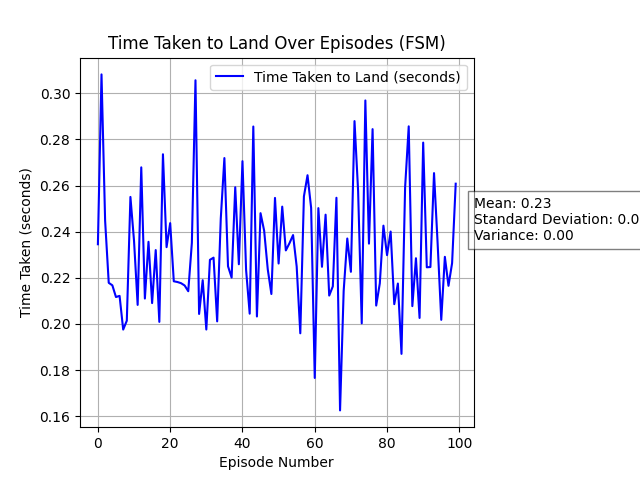
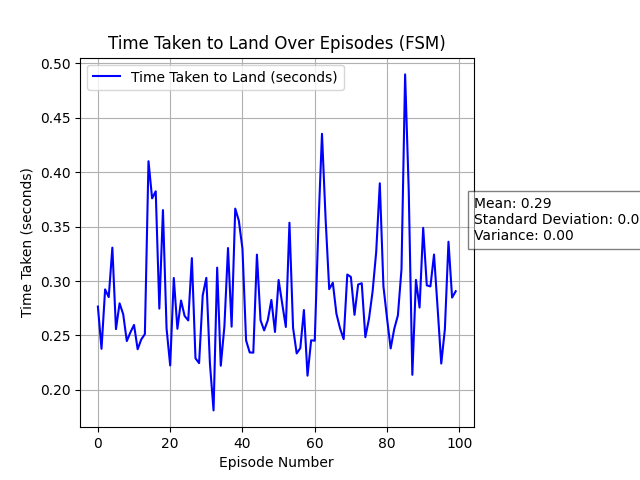
add unreadable pie plot

Changed region(s): [[0.0312, 0.125, 0.75, 0.875], [0.0625, 0.75, 0.125, 0.875], [0.8438, 0.4062, 0.875, 0.4375]]

diff --git a/plot_results.py b/plot_results.py
@@ -7,9 +7,10 @@ def plot_results(episodes, max_deviations, avg_deviations, min_deviations,
                  max_gimbal_smoothness, avg_gimbal_smoothness, min_gimbal_smoothness,
                  max_throttle_smoothness, avg_throttle_smoothness, min_throttle_smoothness,
                  time_taken_to_land, model_type, landing_successes, x_landing_precision,
-                 ram_usage):
+                 ram_usage, action_counts):
     """
-    Plot the results of the evaluation for either PPO or FSM models.
+    Plot the results of the evaluation for either PPO or FSM models, including a pie chart
+    for the action distribution.
 
     Parameters:
     - episodes: List of episode numbers.
@@ -30,10 +31,8 @@ def plot_results(episodes, max_deviations, avg_deviations, min_deviations,
     - landing_successes: List of boolean values indicating success (True) or failure (False) for each episode.
     - x_landing_precision: List of x-axis positions at the end of each episode.
     - ram_usage: List of RAM usage per episode.
+    - action_counts: Dictionary containing the count of each action (0 to 6).
     """
-
-    output_dir = os.path.join('plots', 'comparison', model_type)
-    os.makedirs(output_dir, exist_ok=True)  # Create the directory if it doesn't exist
 
     output_dir = os.path.join('plots', 'comparison', model_type)
     os.makedirs(output_dir, exist_ok=True)  # Create the directory if it doesn't exist
@@ -200,3 +199,39 @@ def plot_results(episodes, max_deviations, avg_deviations, min_deviations,
         plt.gcf().text(0.74, 0.5, stats_text, bbox=dict(facecolor='white', alpha=0.5))  # Adjust position
         plt.savefig(os.path.join(output_dir, 'ram_usage_over_episodes.png'))
         plt.close()
+
+    if action_counts:
+        # Create a pie chart for action distribution (excluding action 6 - "no action")
+        total_actions = sum(action_counts[action] for action in range(6))  # Exclude action 6
+        if total_actions > 0:
+            action_labels = ['Gimbal Left', 'Gimbal Right', 'Throttle Up', 'Throttle Down',
+                             'First Control Thruster', 'Second Control Thruster']
+            action_values = [action_counts[action] for action in range(6)]
+
+            # Calculate the percentage breakdown of actions
+            action_percentages = [100 * value / total_actions for value in action_values]
+
+            # Define colors for each action
+            colors = plt.cm.Paired.colors[:6]  # Using a color palette with six colors
+            
+            # Create the pie chart without the labels
+            plt.figure()
+            wedges, _ = plt.pie(action_percentages, colors=colors, startangle=90)
+
+            # Create the legend and stats box
+            legend_labels = [f'{label}: {percent:.1f}%' for label, percent in zip(action_labels, action_percentages)]
+            
+            # Positioning the legend box
+            plt.legend(wedges, legend_labels, title="Actions", loc="center left", bbox_to_anchor=(1, 0, 0.5, 1))
+            
+            # Calculate the mean number of actions per episode (for actions 0 to 5)
+            mean_actions_per_episode = total_actions / len(episodes)
+            
+            # Adding statistics box
+            stats_text = (f'Mean number of actions per episode (excluding no action): {mean_actions_per_episode:.2f}')
+            plt.gcf().text(0.74, 0.2, stats_text, bbox=dict(facecolor='white', alpha=0.5))
+
+            # Save the pie chart
+            plt.title(f'Action Distribution {title_suffix}')
+            plt.savefig(os.path.join(output_dir, 'action_distribution_pie_chart.png'))
+            plt.close()

diff --git a/eval_fsm.py b/eval_fsm.py
@@ -25,6 +25,9 @@ def evaluate_fsm(num_episodes=100):
     landing_successes = []
     x_landing_precision = []
     ram_usage = []
+    
+    # Initialize action count dictionary (for actions 0 to 6)
+    action_counts = {i: 0 for i in range(7)}  # 0 to 6 mapped actions
 
     for episode in range(num_episodes):
         # Reinitialize the environment for every episode
@@ -47,8 +50,8 @@ def evaluate_fsm(num_episodes=100):
         old_stdout = sys.stdout
         sys.stdout = io.StringIO()
 
-        # Run the FSM control loop and gather flight data for every time step
-        flight_data, done = fsm_control_loop(env, render=False)
+        # Run the FSM control loop and gather flight data and actions
+        flight_data, actions, done = fsm_control_loop(env, render=False)
 
         output = sys.stdout.getvalue()
         if "LANDED!!!!!!!!!" in output:
@@ -57,6 +60,10 @@ def evaluate_fsm(num_episodes=100):
         sys.stdout = old_stdout
 
         ram_usage.append(process.memory_info().rss / (1024 ** 2))
+
+        # Track action counts across the episode
+        for action in actions:
+            action_counts[action] += 1  # Increment the action count
 
         for timestep_data in flight_data:
             state = timestep_data['state']
@@ -124,9 +131,10 @@ def evaluate_fsm(num_episodes=100):
         episodes.append(episode)
 
         # Cleanup memory and force garbage collection
-        del flight_data, episode_gimbal_smoothness, episode_deviations, episode_throttle_smoothness, episode_response_times
+        del flight_data, actions, episode_gimbal_smoothness, episode_deviations, episode_throttle_smoothness, episode_response_times
         gc.collect()
 
+    # Plot results including the pie chart for action usage
     plot_results(
         episodes=episodes,
         max_gimbal_smoothness=max_gimbal_smoothness,
@@ -145,7 +153,8 @@ def evaluate_fsm(num_episodes=100):
         x_landing_precision=x_landing_precision,
         model_type='FSM',
         landing_successes=landing_successes,
-        ram_usage=ram_usage  # Include RAM usage in the plot
+        ram_usage=ram_usage,
+        action_counts=action_counts  # Pass the action counts to plot
     )
 
 # Run the evaluation

diff --git a/fsm_controller.py b/fsm_controller.py
@@ -185,11 +185,13 @@ def fsm_control_loop(env, render=False):
 
     Returns:
     - flight_data: A list of dictionaries containing state variables for each timestep.
+    - actions: A list of actions taken at each timestep.
     - done: Boolean flag indicating if the episode is finished.
     """
     obs = env.reset()
     done = False
     flight_data = []  # Store the raw data from each timestep
+    actions = []  # Store the actions taken
 
     while not done:
         dt = 1.0 / env.metadata['video.frames_per_second']
@@ -207,23 +209,31 @@ def fsm_control_loop(env, render=False):
         if within_landing_zone(obs, dt):
             # Landing control logic
             throttle_action, thruster_action = land_rocket(obs, dt)
+
+            # Append actions to the actions list
+            actions.append(throttle_action)
+            actions.append(thruster_action)
+
             obs, reward, done, info = env.step(throttle_action)
             obs, reward, done, info = env.step(thruster_action)
         else:
             # Main control loop for non-landing zone
             gimbal_action = correct_angle(obs, dt)
+            actions.append(gimbal_action)
             obs, reward, done, info = env.step(gimbal_action)
 
             throttle_action = set_throttle(obs, dt)
+            actions.append(throttle_action)
             obs, reward, done, info = env.step(throttle_action)
 
             # Apply angle correction again for more aggressive control if moving toward landing zone
             if moving_toward_landing_zone(obs, dt):
                 gimbal_action = correct_angle(obs, dt)
+                actions.append(gimbal_action)
                 obs, reward, done, info = env.step(gimbal_action)
 
         # Render the environment if specified
         if render:
             env.render()
 
-    return flight_data, done
+    return flight_data, actions, done

diff --git a/run_fsm_model.py b/run_fsm_model.py
@@ -1,4 +1,4 @@
 from fsm_controller import * 
 
 # run fsm model for one iteration
-flight_data, done = fsm_control_loop(env, render=True)
+flight_data, actions, done = fsm_control_loop(env, render=True)
